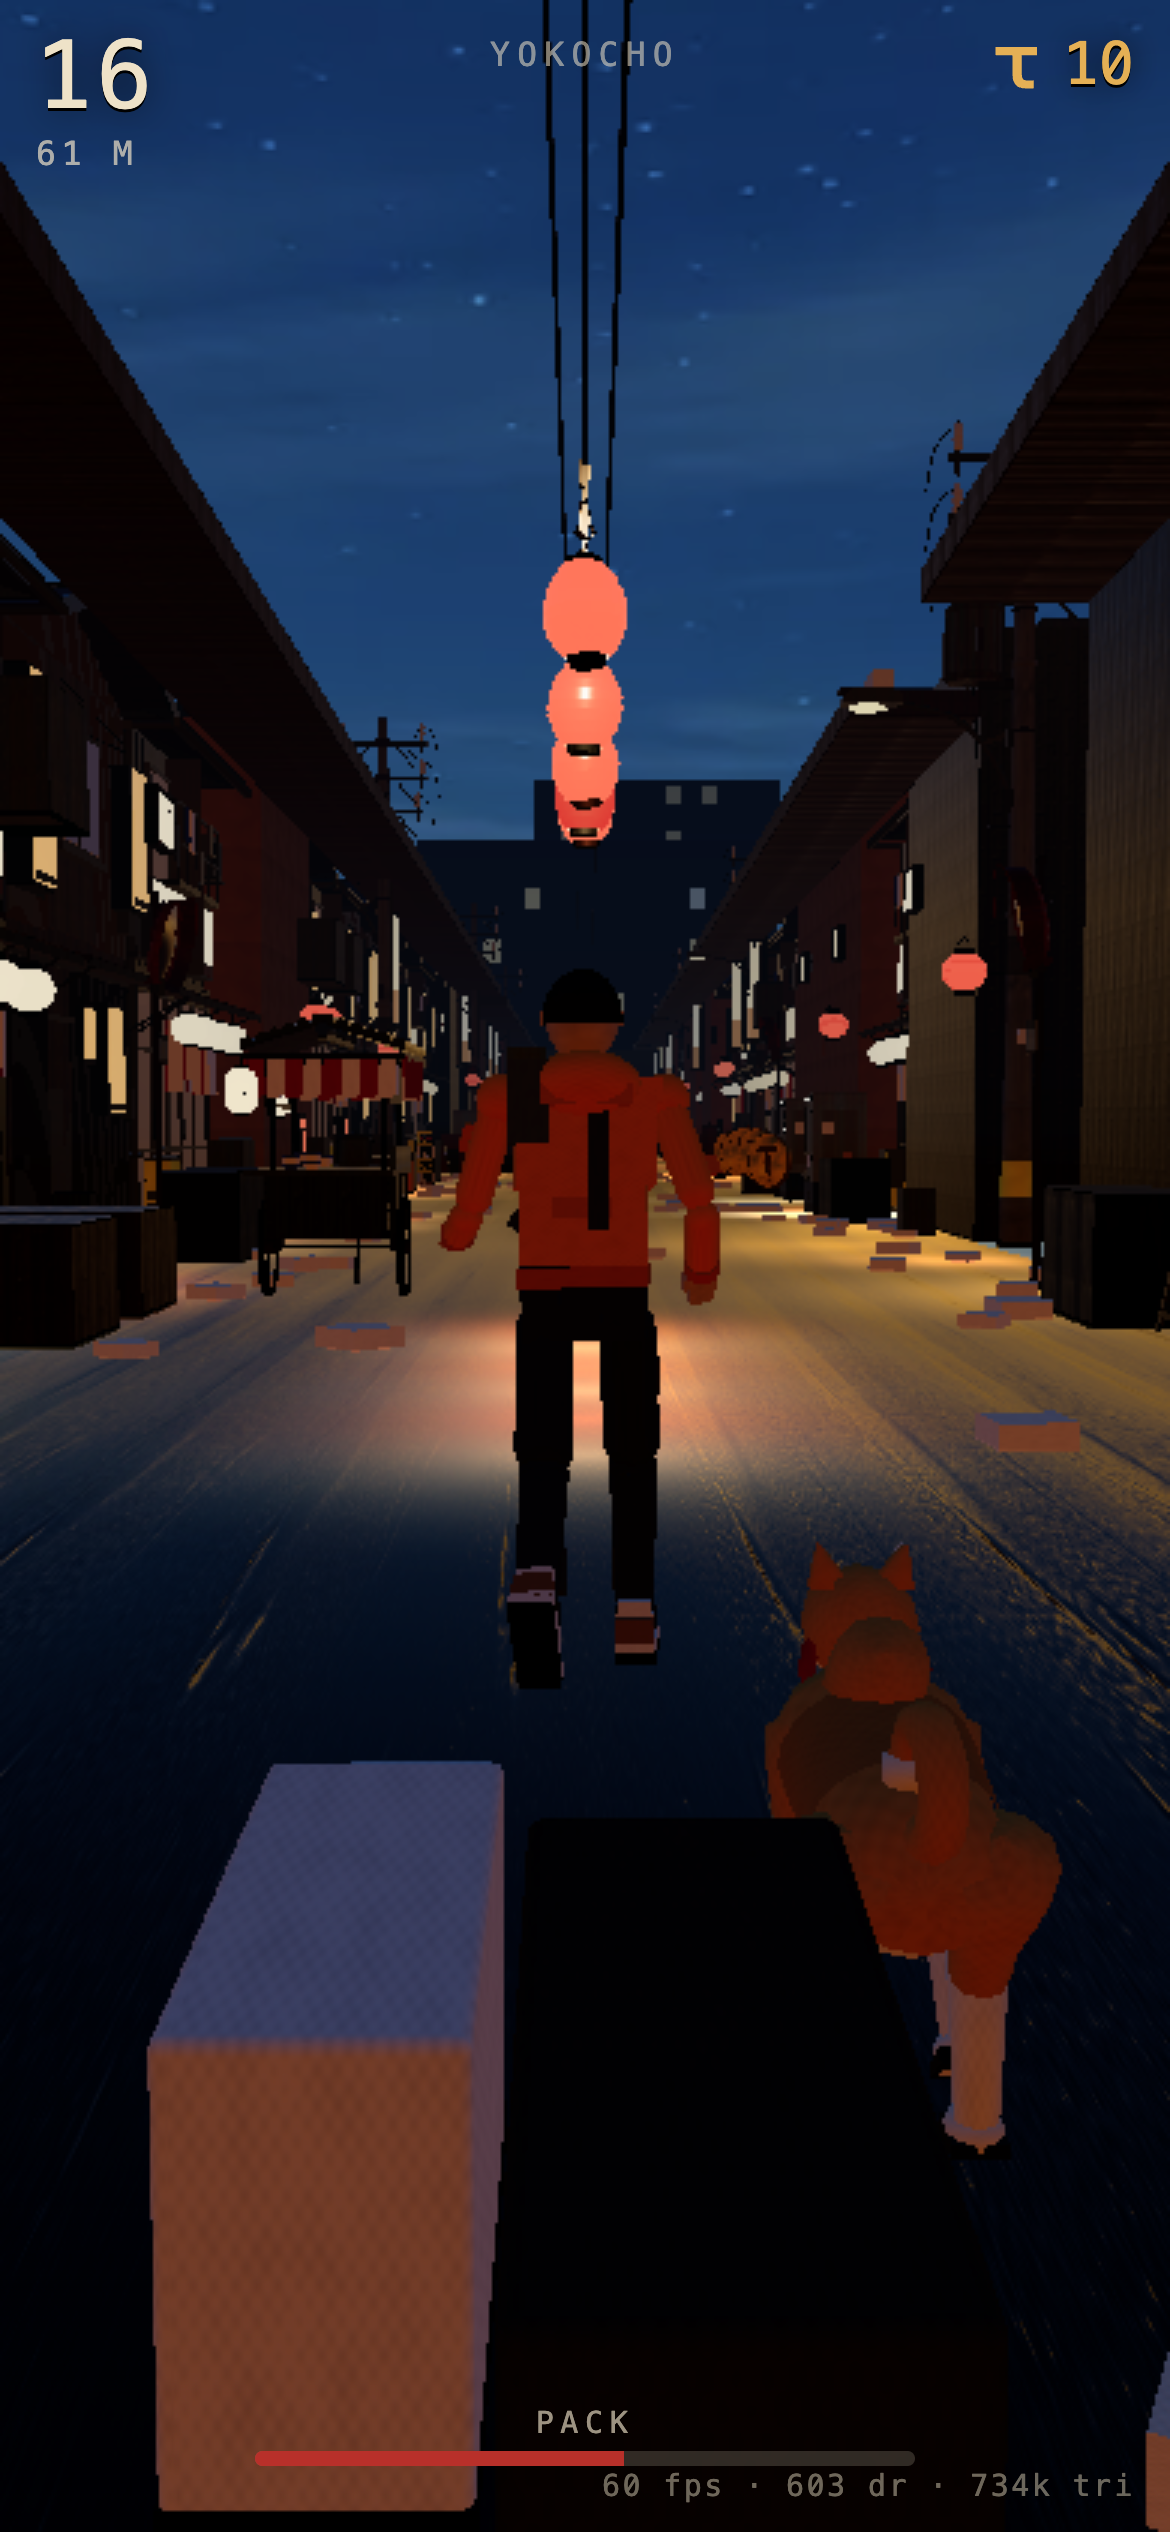
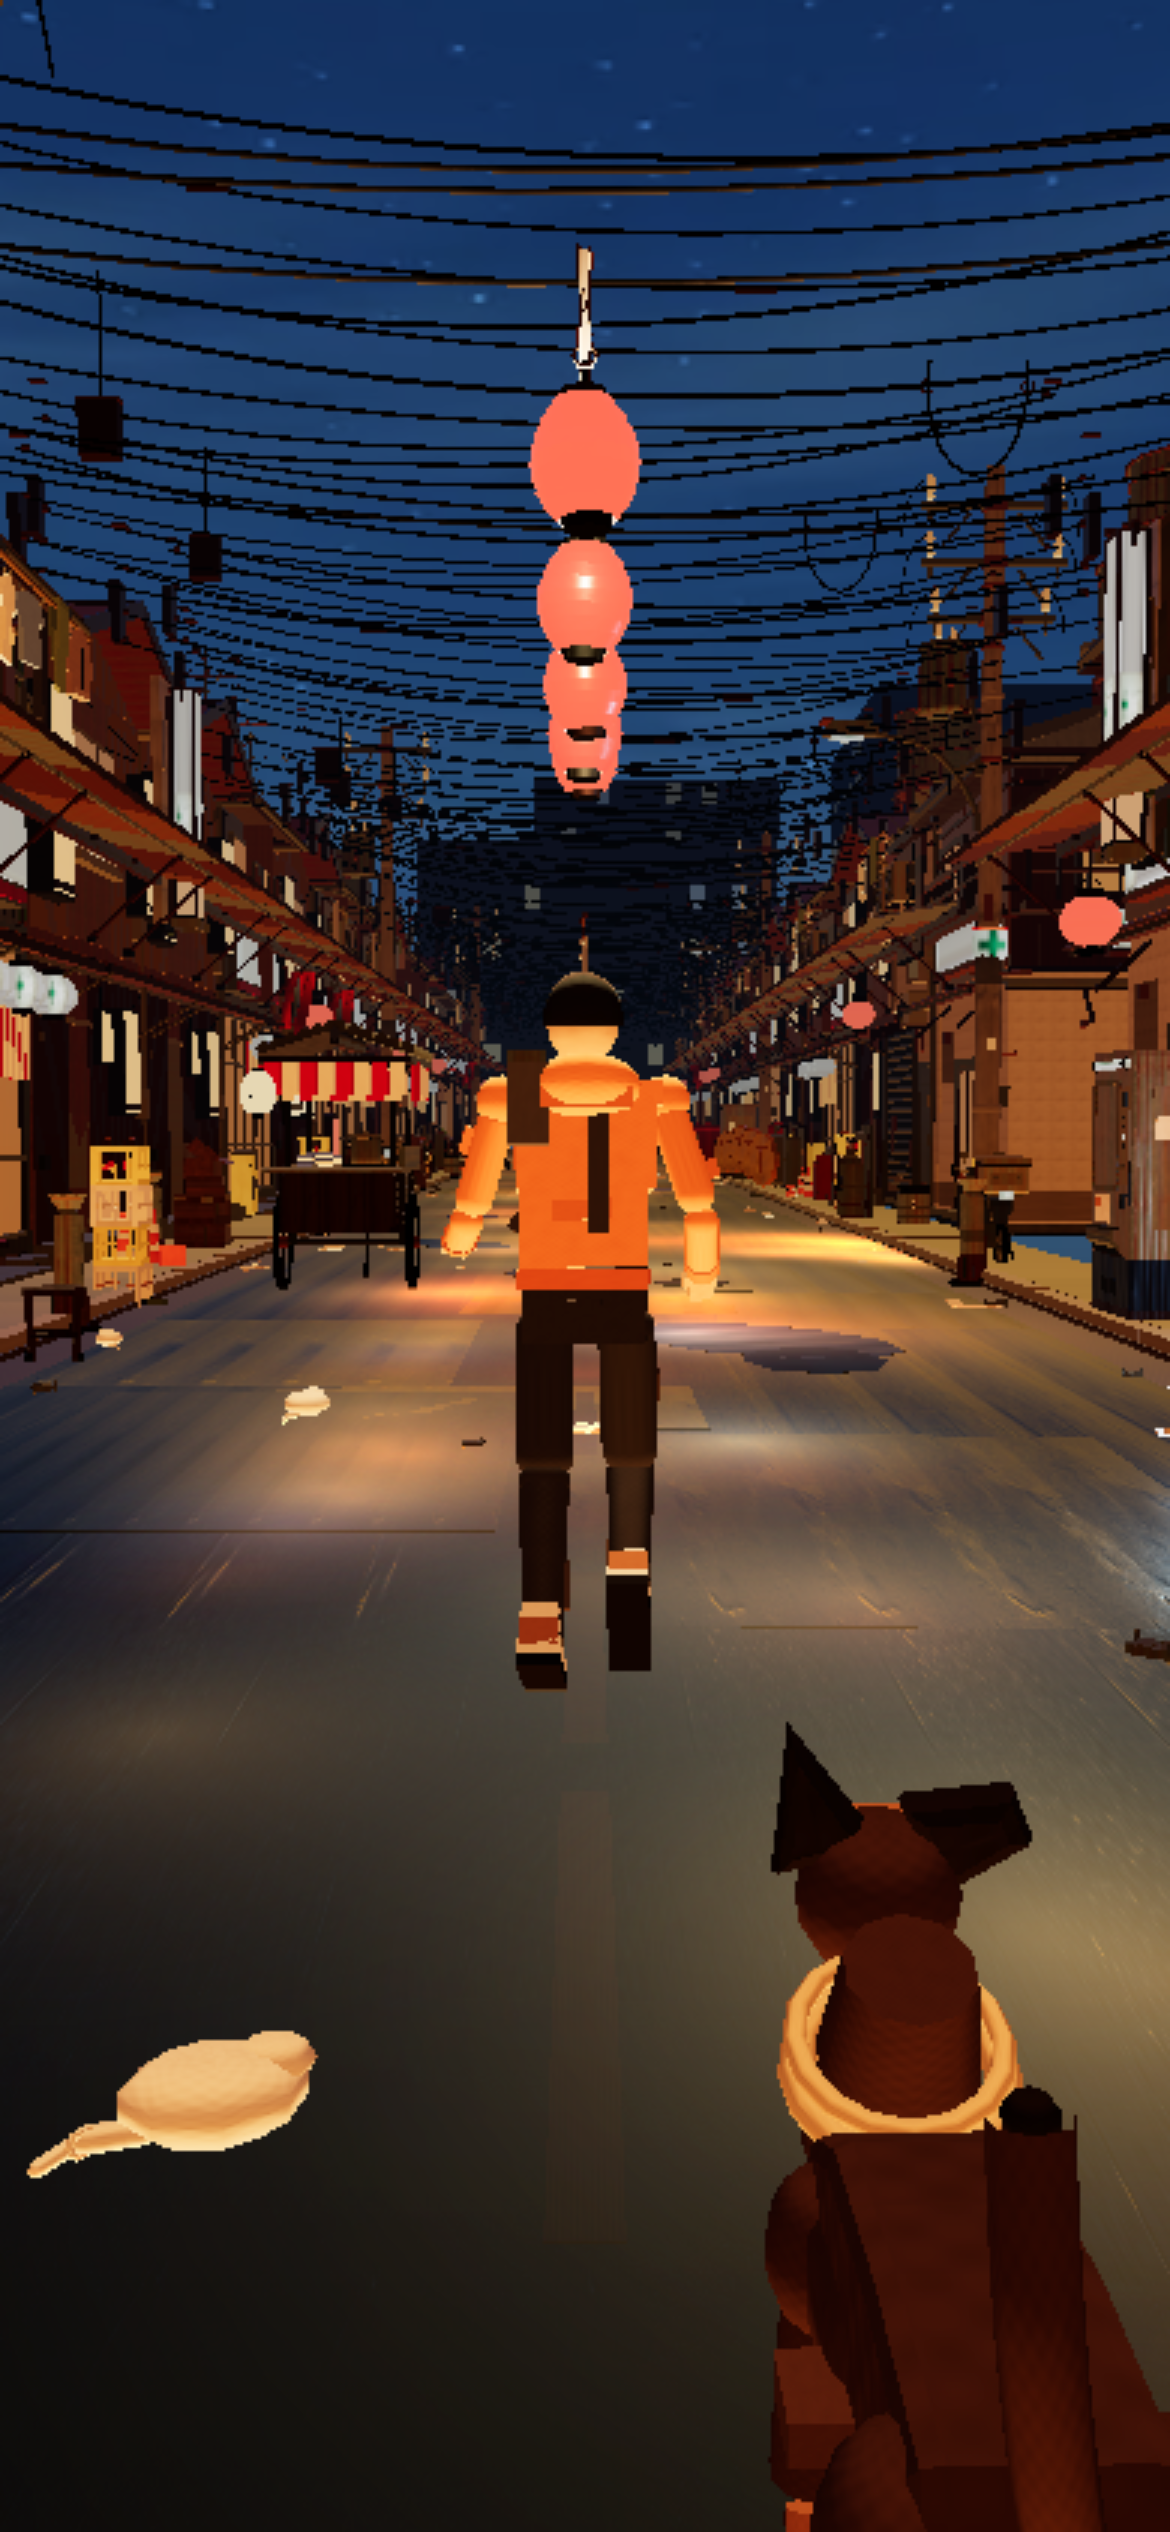
Round 0 recorded: gate passes clean with all 58 assets

diff --git a/BUILD_STATE.md b/BUILD_STATE.md
@@ -65,3 +65,27 @@ Filmstrip observations (round 0, 35/58 assets): the alley reads — shophouses b
 cables, wet road with reflections, runner and shiba in frame at hero 29 %. The large pale boxes
 near the camera are the placeholder dog_spitz and dog_mutt (A5 will replace them). Expressway and
 ramp zones are nearly empty pending A9's deck/ramp and A8's steel.
+
+## Round 0 complete, 2026-09-20 — ALL 58 ASSETS IN, GATE PASSES CLEAN
+node tools/gate.mjs game --seed=7 : 802 m, 92 coins, 14 jumps, 8 rolls, 60 fps median,
+468 draws (budget 900), 1,322,458 tris (budget 1.5M), 4.38 MB, 0 x 404, 0 console errors. RESULT PASS.
+
+Fixes this session, each a silent failure that the gate alone would not have caught:
+ 1. assets.init was never called -> the whole world built EMPTY while the gate passed on 8 draws.
+ 2. road / expressway deck / ramp were each placed at the wrong height (buried, 5.2 m airborne, sunk).
+ 3. the 8 Atlas sign sprites + 2 noren were generated but never applied to any sign face.
+ 4. bakeStatic merged nothing (~185 materials per chunk): vertex-colour tinting per recipe family
+    took track draws 1,121 -> 267 and the whole frame 1,187 -> 462.
+ 5. three dogs sat between the low camera and the hero, masking the road: spread to the lane edges.
+ 6. gate gained --nohud, because a HUD in the corner identifies our frame in a blind pair.
+
+Claims vs the bar after E4's lighting pass (tools/claims.py, 6 frames vs 20):
+  C1 median luma      bar 39.6   build 51.5   still separates (77.5 %) - we are too bright
+  C2 p98 / % over 200 bar 224.5 / 3.2   build 215.0 / 3.8   MATCHES (dropped as a claim)
+  C3 dark R - B       bar +7.0   build +2.6   MATCHES within noise (was -6.5)
+  C4 top-fifth blue   bar 39.6 % build 63.2 % separates 100 % - THE strongest remaining signal
+  C5 side/centre edge bar 0.9    build 1.0    MATCHES
+  C7 bottom amber     bar 6.1 %  build 6.5 %  MATCHES (was 23.2 % - overshot and corrected)
+
+Critic round 1 running on 4 blind pairs (work/critic1/bar) against 4 bar frames, HUD off.
+Stopping rule: 3 critic rounds, then ship and write down what is still wrong.
